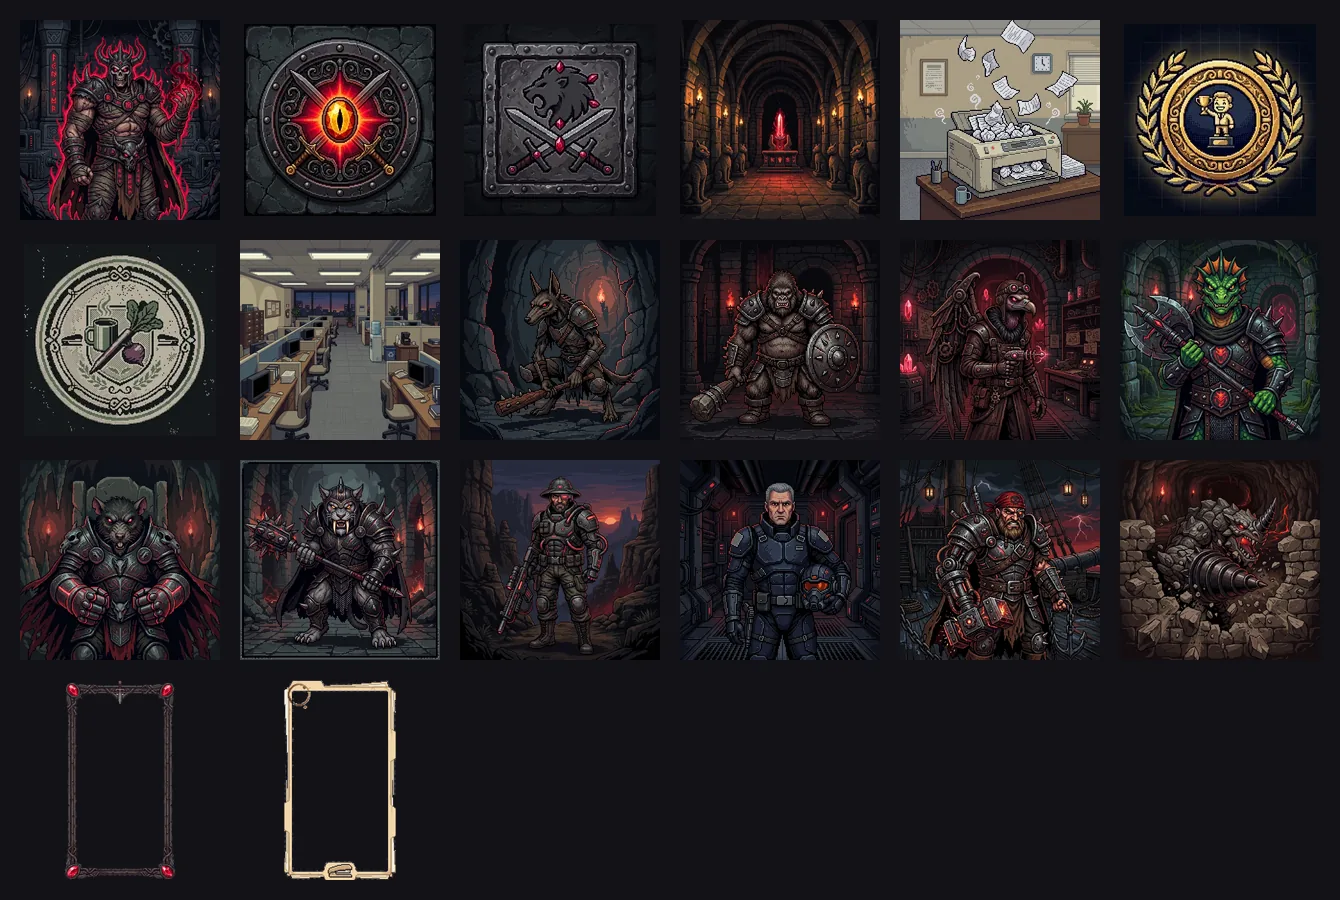
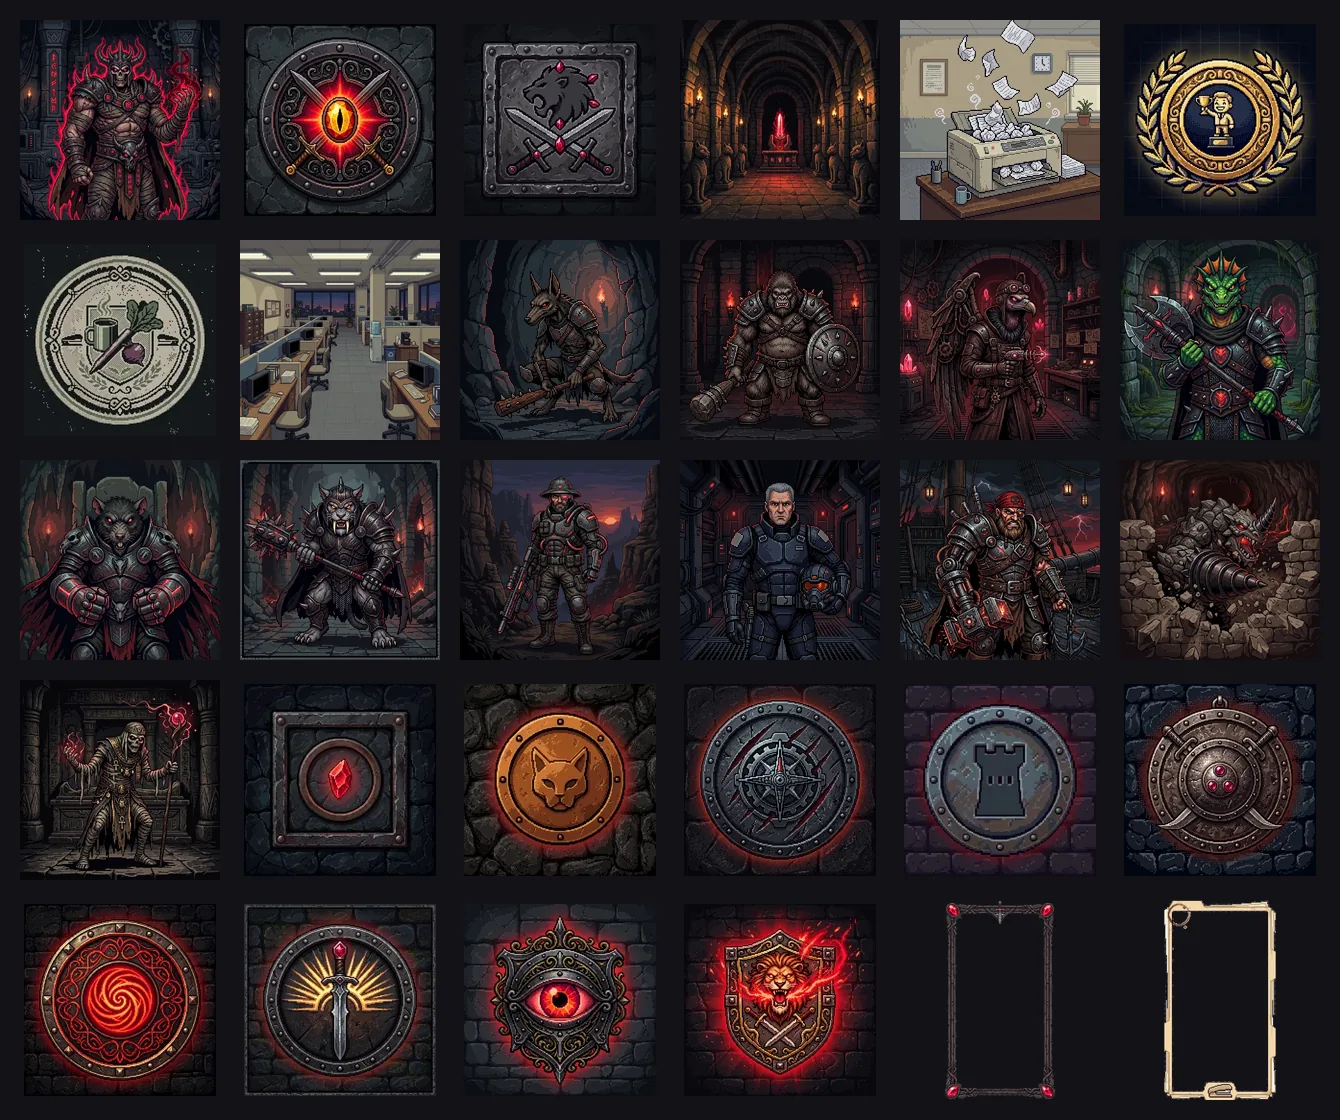
Lote 3: fecha as cartelas 1 e 2 do ThunderCats (Mumm-Ra mumificada + 9 patentes)
- Chamadas 21-30: Mumm-Ra (forma mumificada) e as patentes 01-09
  (Sobrevivente de Thundera ... Senhor dos ThunderCats).
- ThunderCats completa 24/24 arquivos de tema (12 retratos + 10 patentes
  + selo + fundo); 26/98 peças do plano concluídas, 72 pendentes.
- Patentes 192x192 LANCZOS (01 em plaqueta quadrada, 02-09 em medalhão);
  prova de leitura 28px ampliada para 13 itens. Contraste baixo registrado
  para selo ThunderCats e patente 03.
- Manifesto com 30 registros; provas atualizadas.
- Cadastro do tema segue pendente de aprovação de interface.
- Sem mudanças em UI, THEMES, XP, dano, PR, fórmulas ou histórico.

diff --git a/scripts/prepare-art-lote1.py b/scripts/prepare-art-lote1.py
@@ -96,6 +96,37 @@ PECAS = [
     ('tc-boss-the-driller', 'The Driller', 'thundercats', 'bosses',
      'lote2-the-driller.png', 'thundercats/bosses/the-driller.webp',
      (512, 512), 'nearest', 'images/bosses/the-driller.webp (retrato do chefe ao cadastrar o tema)'),
+    # Lote 3 — fecha a cartela 1 (Mumm-Ra mumificada) e a cartela 2 (patentes 01–09)
+    ('tc-boss-mumm-ra-mumificada', 'Mumm-Ra, forma mumificada', 'thundercats', 'bosses',
+     'lote3-mumm-ra-mumificada.png', 'thundercats/bosses/mumm-ra-mumificada.webp',
+     (512, 512), 'nearest', 'images/bosses/mumm-ra-mumificada.webp (retrato do chefe ao cadastrar o tema)'),
+    ('tc-patente-sobrevivente-de-thundera', 'Patente Sobrevivente de Thundera', 'thundercats', 'patentes',
+     'lote3-patente-01.png', 'thundercats/patentes/thundercats-01.webp',
+     (192, 192), 'lanczos', 'images/patentes/thundercats-01.webp (patente 1/10 ao cadastrar o tema)'),
+    ('tc-patente-aprendiz-terceira-terra', 'Patente Aprendiz da Terceira Terra', 'thundercats', 'patentes',
+     'lote3-patente-02.png', 'thundercats/patentes/thundercats-02.webp',
+     (192, 192), 'lanczos', 'images/patentes/thundercats-02.webp (patente 2/10 ao cadastrar o tema)'),
+    ('tc-patente-explorador-terceira-terra', 'Patente Explorador da Terceira Terra', 'thundercats', 'patentes',
+     'lote3-patente-03.png', 'thundercats/patentes/thundercats-03.webp',
+     (192, 192), 'lanczos', 'images/patentes/thundercats-03.webp (patente 3/10 ao cadastrar o tema)'),
+    ('tc-patente-sentinela-toca-dos-gatos', 'Patente Sentinela da Toca dos Gatos', 'thundercats', 'patentes',
+     'lote3-patente-04.png', 'thundercats/patentes/thundercats-04.webp',
+     (192, 192), 'lanczos', 'images/patentes/thundercats-04.webp (patente 4/10 ao cadastrar o tema)'),
+    ('tc-patente-guerreiro-de-thundera', 'Patente Guerreiro de Thundera', 'thundercats', 'patentes',
+     'lote3-patente-05.png', 'thundercats/patentes/thundercats-05.webp',
+     (192, 192), 'lanczos', 'images/patentes/thundercats-05.webp (patente 5/10 ao cadastrar o tema)'),
+    ('tc-patente-guardiao-do-codigo', 'Patente Guardião do Código', 'thundercats', 'patentes',
+     'lote3-patente-06.png', 'thundercats/patentes/thundercats-06.webp',
+     (192, 192), 'lanczos', 'images/patentes/thundercats-06.webp (patente 6/10 ao cadastrar o tema)'),
+    ('tc-patente-portador-da-espada', 'Patente Portador da Espada Justiceira', 'thundercats', 'patentes',
+     'lote3-patente-07.png', 'thundercats/patentes/thundercats-07.webp',
+     (192, 192), 'lanczos', 'images/patentes/thundercats-07.webp (patente 7/10 ao cadastrar o tema)'),
+    ('tc-patente-protetor-do-olho', 'Patente Protetor do Olho de Thundera', 'thundercats', 'patentes',
+     'lote3-patente-08.png', 'thundercats/patentes/thundercats-08.webp',
+     (192, 192), 'lanczos', 'images/patentes/thundercats-08.webp (patente 8/10 ao cadastrar o tema)'),
+    ('tc-patente-senor-dos-thundercats', 'Patente Senhor dos ThunderCats', 'thundercats', 'patentes',
+     'lote3-patente-09.png', 'thundercats/patentes/thundercats-09.webp',
+     (192, 192), 'lanczos', 'images/patentes/thundercats-09.webp (patente 9/10 ao cadastrar o tema)'),
 ]
 
 # Molduras: flood-fill do xadrez pintado. (faixas de luminância de neutros, sementes extras)
@@ -233,15 +264,12 @@ for pid, peca, tema, fname, dest, bands, extra, uso in MOLDURAS:
 OUT_PROVAS.mkdir(parents=True, exist_ok=True)
 
 # 1) leitura a 28/56 px de patentes e selos (método final)
-faixa = Image.new('RGB', (4 * 90, 200), (24, 24, 28))
+alvos_leitura = [(pid, dest) for pid, peca, tema, cat, fname, dest, alvo, metodo, uso in PECAS
+                 if cat in ('patentes', 'temas') and (OUT_CAND / dest).exists()]
+faixa = Image.new('RGB', (max(1, len(alvos_leitura)) * 90, 200), (24, 24, 28))
 col = 0
-for pid, peca, tema, cat, fname, dest, alvo, metodo, uso in PECAS:
-    if cat not in ('patentes', 'temas'):
-        continue
-    p = OUT_CAND / dest
-    if not p.exists():
-        continue
-    im = Image.open(p)
+for pid, dest in alvos_leitura:
+    im = Image.open(OUT_CAND / dest)
     faixa.paste(im.resize((80, 80), Image.Resampling.NEAREST), (col * 90 + 5, 5))
     faixa.paste(im.resize((28, 28), Image.Resampling.LANCZOS), (col * 90 + 5, 95))
     faixa.paste(im.resize((56, 56), Image.Resampling.LANCZOS), (col * 90 + 5, 130))

diff --git a/docs/ARTES_THUNDERCATS_OFFICE.md b/docs/ARTES_THUNDERCATS_OFFICE.md
@@ -9,11 +9,11 @@ Aprovações registradas nesta sessão (antes da produção em lote): lote compl
 - **1 chamada = 1 imagem única e independente.** O contrato da ferramenta proíbe grade, colagem, contact sheet, montagem ou várias peças/variações numa mesma imagem: **cartelas com múltiplos assets não são geráveis** e não foram simuladas como imagem única.
 - `offer_options` serve para escolher entre 2 candidatos **da mesma peça**, não para empacotar peças.
 - Saída `.jpg/.jpeg/.png`, resolução definida pelo modelo (1024×1024 aqui; molduras saíram 768×1376), **sem garantia de canal alfa**.
-- Orçamento inicial de 10 chamadas consumido no lote 1; o lote 2 (chamadas 11–20) foi autorizado para geração individual. Cada chamada = 1 peça. Não há como produzir 94–98 peças em poucas chamadas; a cartela passa a ser **montagem por código** (§3) ou cartela externa fornecida pelo usuário para recorte pelo `scripts/prepare-art.py`.
+- Orçamento inicial de 10 chamadas consumido no lote 1; lotes 2 e 3 (chamadas 11–30) autorizados para geração individual. Cada chamada = 1 peça. Não há como produzir 94–98 peças em poucas chamadas; a cartela passa a ser **montagem por código** (§3) ou cartela externa fornecida pelo usuário para recorte pelo `scripts/prepare-art.py`.
 
 ## 2. Inventário do lote — separação por origem
 
-### 2.1 Imagens realmente geradas (20 originais, **fora do Git**)
+### 2.1 Imagens realmente geradas (30 originais, **fora do Git**)
 
 Originais grandes em `.cache/artes-originais/lote*.png` (≈2 MB cada; `.cache/` é ignorado **e volátil** — entre turnos do sandbox os originais do lote 1 deixaram de existir; o registro durável são os SHA-256 no manifesto e os derivados versionados). Reprodução futura: conservar os originais externamente ou reenviar.
 
@@ -47,15 +47,30 @@ Originais grandes em `.cache/artes-originais/lote*.png` (≈2 MB cada; `.cache/`
 | 19 | Hammerhand | `lote2-hammerhand.png` | Pirata ciborgue com antebraço-martelo, convés com correntes |
 | 20 | The Driller | `lote2-the-driller.png` | Fera subterrânea com chifre-furadeira rompendo parede de pedra |
 
+**Lote 3 (chamadas 21–30) — fecha as cartelas 1 e 2 do ThunderCats:**
+
+| # | Peça | Original (cache) | Conteúdo revisado |
+|---|---|---|---|
+| 21 | Mumm-Ra, forma mumificada | `lote3-mumm-ra-mumificada.png` | Múmia feiticeira mirrada com cajado e facho vermelho, câmara de sarcófago (composição distinta da forma poderosa) |
+| 22 | Patente Sobrevivente de Thundera | `lote3-patente-01.png` | Fragmento de cristal vermelho em anel de ferro simples (**plaqueta quadrada** — progressão do fragmento ao brasão) |
+| 23 | Patente Aprendiz da Terceira Terra | `lote3-patente-02.png` | Insígnia felina em medalhão de bronze |
+| 24 | Patente Explorador da Terceira Terra | `lote3-patente-03.png` | Bússola tecnológica com marcas de garras |
+| 25 | Patente Sentinela da Toca dos Gatos | `lote3-patente-04.png` | Silhueta de fortaleza em relevo |
+| 26 | Patente Guerreiro de Thundera | `lote3-patente-05.png` | Escudo com duas lâminas cruzadas e rubis |
+| 27 | Patente Guardião do Código | `lote3-patente-06.png` | Medalhão luminoso com glifo espiral abstrato (sem letras) |
+| 28 | Patente Portador da Espada Justiceira | `lote3-patente-07.png` | Espada ereta com raios e rubi no punho |
+| 29 | Patente Protetor do Olho de Thundera | `lote3-patente-08.png` | Olho de metal ornamentado com íris de rubi |
+| 30 | Patente Senhor dos ThunderCats | `lote3-patente-09.png` | Brasão felino com espadas e energia vermelha |
+
 Runas/marcas decorativas nos salões e placas são abstratas, **sem nomes, números ou legendas legíveis** (conforme especificação).
 
 ### 2.2 Imagens fornecidas pelo usuário
 
 **Nenhuma nesta sessão.** (Uma cartela externa sua pode acelerar as 88 peças pendentes: recorte/otimização seguem pelo `scripts/prepare-art.py`, com caixas manuais revisadas.)
 
-### 2.3 Recortes/derivados versionados (20 WebP)
+### 2.3 Recortes/derivados versionados (30 WebP)
 
-`images/artes/candidatos/` — **candidatos, fora do CORE do service worker, não carregados pela UI** (cache offline não cresce). Total **≈970 KB**. Campos completos (id, tema/categoria, origem, fonte, sha256, recorte, dimensões, formato, transparência, local de uso futuro, estado, notas de revisão) em [`manifesto-artes.json`](manifesto-artes.json).
+`images/artes/candidatos/` — **candidatos, fora do CORE do service worker, não carregados pela UI** (cache offline não cresce). Total **≈1,1 MB**. Campos completos (id, tema/categoria, origem, fonte, sha256, recorte, dimensões, formato, transparência, local de uso futuro, estado, notas de revisão) em [`manifesto-artes.json`](manifesto-artes.json).
 
 | Derivado | Alvo | Método | Estado | Uso futuro (ao cadastrar o tema) |
 |---|---|---|---|---|
@@ -70,7 +85,9 @@ Runas/marcas decorativas nos salões e placas são abstratas, **sem nomes, núme
 | `thundercats/molduras/moldura-thundercats.webp` | 768×1376 | keying + mediana | candidato | overlay do Card (referência 1080×1920) |
 | `office/molduras/moldura-office.webp` | 768×1376 | keying + mediana | candidato | overlay do Card (referência 1080×1920) |
 
-**Lote 2 (chefões ThunderCats; todos 512×512 NEAREST 2:1, `candidato`, uso futuro `images/bosses/<arquivo>.webp`):** `thundercats/bosses/jackalman.webp` (36 KB) · `monkian.webp` (43 KB) · `vultureman.webp` (59 KB) · `slithe.webp` (67 KB) · `ratar-o.webp` (53 KB) · `grune.webp` (55 KB) · `safari-joe.webp` (42 KB) · `captain-shiner.webp` (42 KB) · `hammerhand.webp` (74 KB) · `the-driller.webp` (57 KB). Detalhes por peça em `docs/manifesto-artes.json`.
+**Lote 2 (chefões ThunderCats; todos 512×512 NEAREST 2:1, `candidato`, uso futuro `images/bosses/<arquivo>.webp`):** `thundercats/bosses/jackalman.webp` (36 KB) · `monkian.webp` (43 KB) · `vultureman.webp` (59 KB) · `slithe.webp` (67 KB) · `ratar-o.webp` (53 KB) · `grune.webp` (55 KB) · `safari-joe.webp` (42 KB) · `captain-shiner.webp` (42 KB) · `hammerhand.webp` (74 KB) · `the-driller.webp` (57 KB).
+
+**Lote 3 (fecha as cartelas 1–2 do ThunderCats):** `thundercats/bosses/mumm-ra-mumificada.webp` (512×512 NEAREST) · `thundercats/patentes/thundercats-01…09.webp` (192×192 LANCZOS; 01 em plaqueta quadrada, 02–09 em medalhão). Detalhes por peça em `docs/manifesto-artes.json` (30 registros).
 
 **Método de redução por alvo (revisado peça a peça):** a arte gerada combina blocos pixelados com brilhos suaves — não é pixel grid nativo estrito. NEAREST só onde a escala é exata 2:1 (512); LANCZOS onde a escala é não inteira (192) para não granular os brilhos (comparação NEAREST×LANCZOS com leitura a 28 px na prova). Nada foi esticado.
 
@@ -78,14 +95,14 @@ Runas/marcas decorativas nos salões e placas são abstratas, **sem nomes, núme
 
 ### 2.4 Artes ainda pendentes
 
-**82 peças do plano editorial** (98 − 16 concluídas como candidatas) + completude de tema: cada tema novo exige **24 arquivos** para a galeria (12 retratos + 10 patentes + 1 selo + 1 fundo). ThunderCats tem **14/24** (11 retratos, 1 patente, selo e fundo); The Office tem **4/24** — **nenhum tema entra na galeria nesta PR**. As duas molduras são infraestrutura fora da contagem; os dois fundos também (completude de tema, não constavam nas 98).
+**72 peças do plano editorial** (98 − 26 concluídas como candidatas) + completude de tema: cada tema novo exige **24 arquivos** para a galeria (12 retratos + 10 patentes + 1 selo + 1 fundo). **ThunderCats está com 24/24 completos** (12/12 retratos, 10/10 patentes, selo e fundo — mais a moldura como infraestrutura); **The Office tem 4/24**. Ainda assim, **nenhum tema entra na galeria nesta PR**: o cadastro em `THEMES`/UI exige sua aprovação (§6). As duas molduras são infraestrutura fora da contagem; os dois fundos também (completude de tema, não constavam nas 98).
 
 ## 3. Provas visuais (`docs/provas-lote1/`, montadas por código)
 
 | Arquivo | O que mostra |
 |---|---|
-| `cartela-candidatos.webp` | Cartela 6×4 montada por código com os **22 candidatos** — grade regular, margens generosas, sem legendas, nenhuma peça encostando na vizinha (é a "cartela" no seu sentido: imagem única com várias peças; a ferramenta de geração não produz isso, a montagem é por código) |
-| `leitura-patentes-28px.webp` | Patentes e selos a 80/28/56 px (linhas). Patentes legíveis a 28 px; **selo ThunderCats lê-se fraco em tamanho pequeno** (fundo escuro sobre escuro) — pendência de contraste registrada |
+| `cartela-candidatos.webp` | Cartela montada por código com **todos os candidatos** — grade regular, margens generosas, sem legendas, nenhuma peça encostando na vizinha (é a "cartela" no seu sentido: imagem única com várias peças; a ferramenta de geração não produz isso, a montagem é por código) |
+| `leitura-patentes-28px.webp` | Patentes e selos a 80/28/56 px (linhas). Patentes 02–10 legíveis a 28 px; **selo ThunderCats e patente 03 (Explorador) leem-se escuros em tamanho pequeno** — pendência de contraste registrada |
 | `moldura-thundercats-sobre-card.webp` | Keying da moldura TC sobre `images/cards/classico.webp` |
 | `moldura-office-sobre-card.webp` | Keying da moldura Office sobre o mesmo card (anel do café limpo) |
 
@@ -107,8 +124,8 @@ As listas enviadas somam **98** (o rótulo "94" do pedido não fecha com as list
 
 | # | Cartela | Peças | Concluídas (candidatas) | Pendentes |
 |---|---|---:|---:|---:|
-| 1 | ThunderCats — Bosses | 12 | 11 (falta só Mumm-Ra, forma mumificada) | 1 |
-| 2 | ThunderCats — Patentes | 10 | 1 (Lenda de Thundera) | 9 |
+| 1 | ThunderCats — Bosses | 12 | **12 (completa)** | 0 |
+| 2 | ThunderCats — Patentes | 10 | **10 (completa)** | 0 |
 | 3 | ThunderCats — Identidade | 6 | 1 (Selo) | 5 (troféu, espada, olho, fortaleza, símbolo) |
 | 4 | The Office — Desafios | 12 | 1 (Impressora em pane) | 11 |
 | 5 | The Office — Patentes | 10 | 1 (Lenda de Scranton) | 9 |
@@ -122,11 +139,12 @@ Notas editoriais mantidas do pedido: The Office trata situações como **desafio
 
 ## 6. Integração futura (não feita nesta PR)
 
+- **ThunderCats está com os 24/24 arquivos prontos** (12 retratos + 10 patentes + selo + fundo, todos candidatos versionados). O passo de cadastro (`THEMES`, galeria, testes) é mudança de interface e **aguarda sua aprovação explícita**.
 - **IDs estáveis provisórios:** `thundercats`, `office` (definitivos só no cadastro aprovado). Nada de remapear progresso por posição de array; IDs de temas/bosses existentes intocados.
-- Cadastro completo de um tema exige: entrada em `THEMES` (`js/gamificacao.js`, com ranks, chefões e grupos fracos mapeados aos grupos reais do app), `THEME_IDS_LIST` (`js/app.js`), retratos em `DEFAULT_BOSS_PORTRAITS` (`js/boss.js`), arquivos nos caminhos finais do manifesto, CORE do `sw.js` + bump de versão, e atualização do teste `tests/engine/40_arte_jogo.js` (120→144 retratos, lista de temas) — **com aprovação sua**.
+- Cadastro completo de um tema exige: entrada em `THEMES` (`js/gamificacao.js`, com ranks, chefões e grupos fracos mapeados aos grupos reais do app — os nomes de patente/chefão já aprovados), `THEME_IDS_LIST` (`js/app.js`), retratos em `DEFAULT_BOSS_PORTRAITS` (`js/boss.js`), arquivos nos caminhos finais do manifesto, CORE do `sw.js` + bump de versão, e atualização do teste `tests/engine/40_arte_jogo.js` (120→144 retratos, lista de temas) — **com aprovação sua**.
 - Fallback de imagem (onerror → emoji/texto), `alt=""` em decoração, descrição em imagem informativa, legibilidade de dados e fotos sob fundos/molduras, validação offline: verificação obrigatória antes de virar "em uso".
 - **Licença:** ThunderCats e The Office são propriedades de terceiros; a geração de imagem **não confere licença comercial**. Uso editorial/interno é decisão sua; registrado aqui e no manifesto.
 
 ## 7. O que esta PR não contém
 
-Sem originais pesados (só derivados ≤117 KB e provas leves ≤173 KB), sem mudanças em fórmulas de treino/XP/dano/PR/histórico, sem temas na galeria, sem alteração de UI, sem dependência nova de produção, sem crescimento do cache offline (candidatos fora do CORE; `sw.js` sobe v58→v59 apenas pela regra de versão para diff em `images/**`).
+Sem originais pesados (só derivados ≤117 KB e provas leves ≤300 KB), sem mudanças em fórmulas de treino/XP/dano/PR/histórico, sem temas na galeria, sem alteração de UI, sem dependência nova de produção, sem crescimento do cache offline (candidatos fora do CORE; `sw.js` sobe v58→v59 apenas pela regra de versão para diff em `images/**`).

diff --git a/CHANGELOG.md b/CHANGELOG.md
@@ -9,6 +9,7 @@ Formato baseado em [Keep a Changelog](https://keepachangelog.com/pt-BR/1.1.0/).
 - Molduras vieram sem alfa nativo (RGB com xadrez pintado — não é transparência); alfa obtido por *keying* de flood-fill com revisão visual de halos, mestres PNG fora do Git. Pendências registradas: halo leve nas bordas internas, selo ThunderCats de baixa leitura a 28 px, teste das molduras nos canvases 1080×1920/1080×1080 antes de qualquer uso.
 - Nenhuma mudança em UI, `THEMES`, XP, chefões, PR, fórmulas, histórico, backup ou cache offline. `sw.js` v58 → v59 (regra de versão para diffs em `images/**`). Plano editorial restante documentado: 92 peças pendentes das 98 aprovadas.
 - **Lote 2 (chamadas 11–20, geração individual):** mais 10 retratos de chefões ThunderCats (Jackalman, Monkian, Vultureman, Slithe, Ratar-O, Grune, Safari Joe, Captain Shiner, Hammerhand, The Driller) — cartela 1 fica com 11/12 (falta Mumm-Ra, forma mumificada). ThunderCats chega a 14/24 arquivos de tema; 82 peças pendentes no plano. Manifesto cresce para 20 registros (mescla por id preservando registros sem original no ambiente); provas atualizadas (`cartela-candidatos.webp` com 22 peças).
+- **Lote 3 (chamadas 21–30):** fecha as cartelas 1 e 2 do ThunderCats — Mumm-Ra (forma mumificada) + 9 patentes (Sobrevivente de Thundera a Senhor dos ThunderCats). **ThunderCats completa 24/24 arquivos de tema** (12 retratos + 10 patentes + selo + fundo); 26/98 peças do plano concluídas, 72 pendentes. Manifesto com 30 registros. Contraste baixo a 28 px registrado para o selo ThunderCats e a patente 03 (Explorador). Cadastro do tema no app segue pendente de aprovação de interface.
 
 ## [Não lançado] — faixa semanal editável por grupo
 
